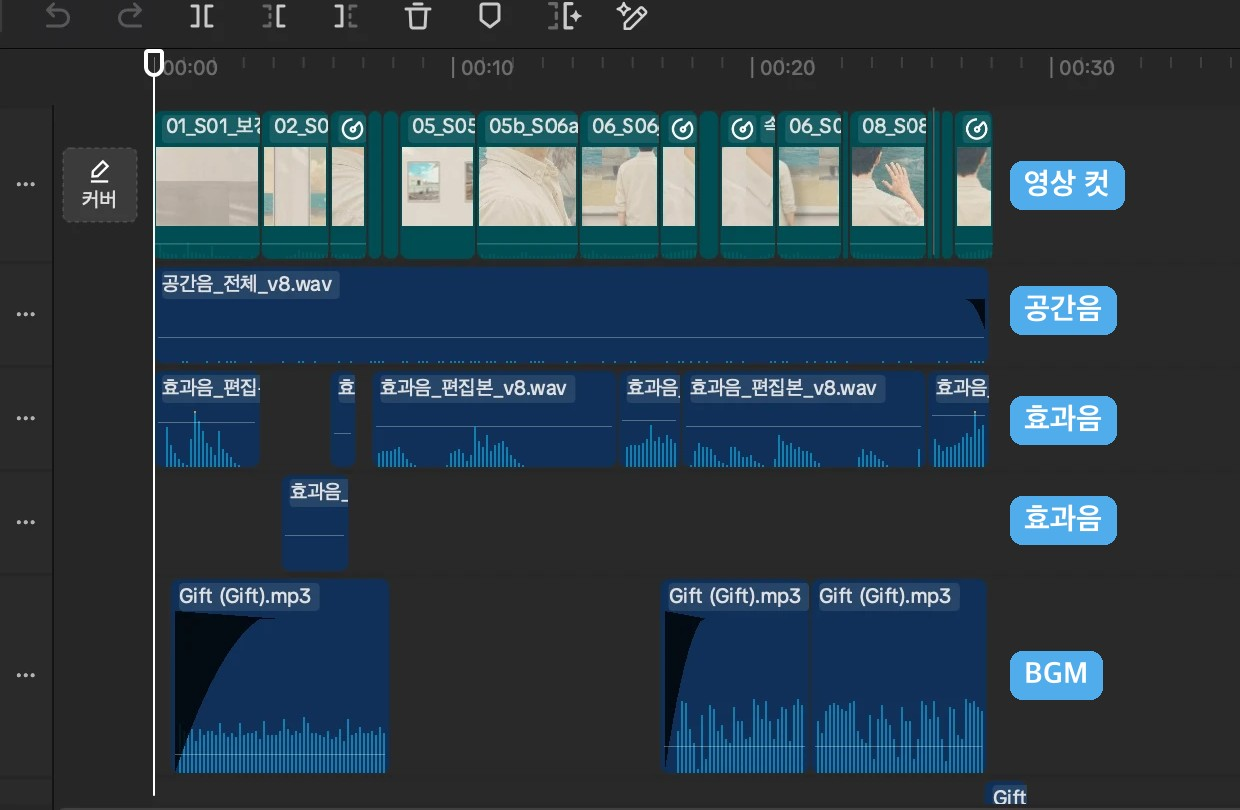
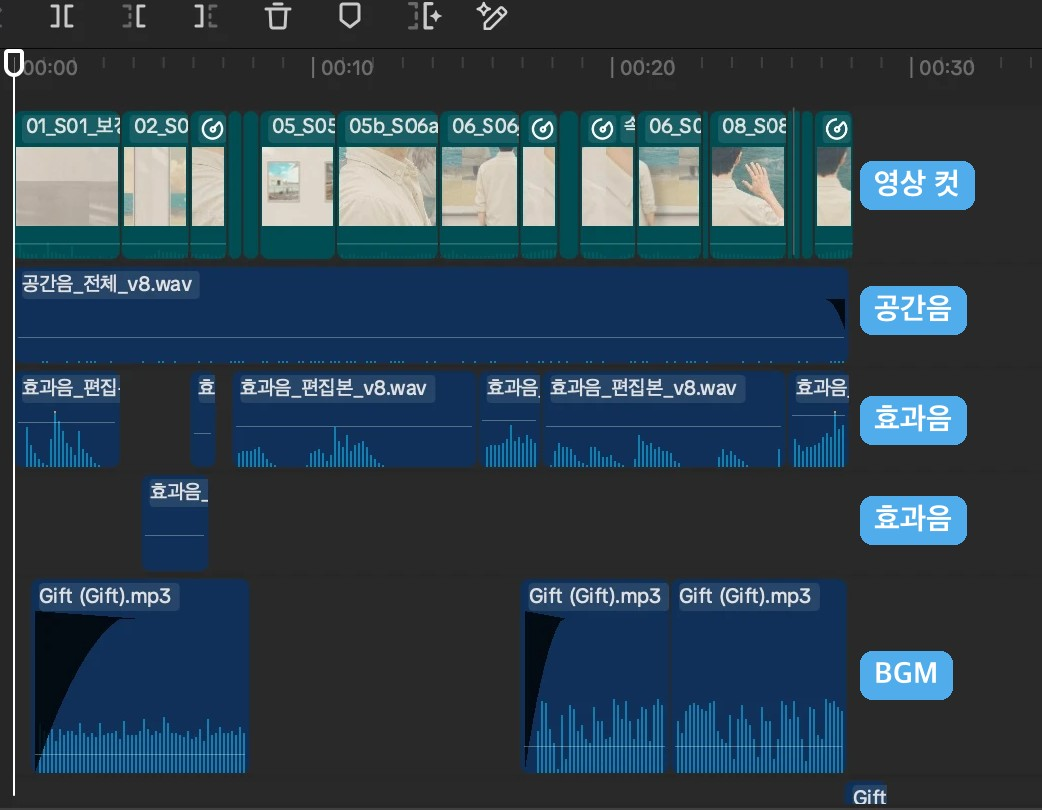
에이아이프릭스 포트폴리오: 작업 화면 CapCut·검수 보고를 같은 폭으로 맞춤(보고서 가로로 넓힘)

diff --git a/aifreaks-portfolio/index.html b/aifreaks-portfolio/index.html
@@ -2850,8 +2850,8 @@ OTHER DEALINGS IN THE FONT SOFTWARE.
           </div>
           <div class="ph-label">④ 작업 화면</div>
           <div class="pt-grid pt-grid-2">
-            <div class="pt" style="grid-column:1 / -1;"><a href="proc-capcut.jpg" target="_blank"><img src="proc-capcut.jpg" alt="CapCut 편집 타임라인" loading="lazy" style="aspect-ratio:1240/810;"></a><div class="pt-cap">CapCut 편집<small>공간음·효과음·BGM을 따로 조절할 수 있게 트랙 분리</small></div></div>
-            <div class="pt" style="grid-column:1 / -1; width:62%; margin:8px auto 0;"><a href="proc-agent-report.png" target="_blank"><img src="proc-agent-report.png" alt="에이전트 1차 검수 보고" loading="lazy" style="aspect-ratio:1000/1060; object-fit:contain;"></a><div class="pt-cap">에이전트 1차 검수 보고<small>레퍼런스와 다른 부분을 부위·이유와 함께 보고 (실제 보고서 내용)</small></div></div>
+            <div class="pt" style="grid-column:1 / -1;"><a href="proc-capcut.jpg" target="_blank"><img src="proc-capcut.jpg" alt="CapCut 편집 타임라인" loading="lazy" style="aspect-ratio:1042/810;"></a><div class="pt-cap">CapCut 편집<small>공간음·효과음·BGM을 따로 조절할 수 있게 트랙 분리</small></div></div>
+            <div class="pt" style="grid-column:1 / -1; margin-top:8px;"><a href="proc-agent-report.png" target="_blank"><img src="proc-agent-report.png" alt="에이전트 1차 검수 보고" loading="lazy" style="aspect-ratio:1300/1011;"></a><div class="pt-cap">에이전트 1차 검수 보고<small>레퍼런스와 다른 부분을 부위·이유와 함께 보고 (실제 보고서 내용)</small></div></div>
           </div>
         </div>
         <div class="kd-sec">
